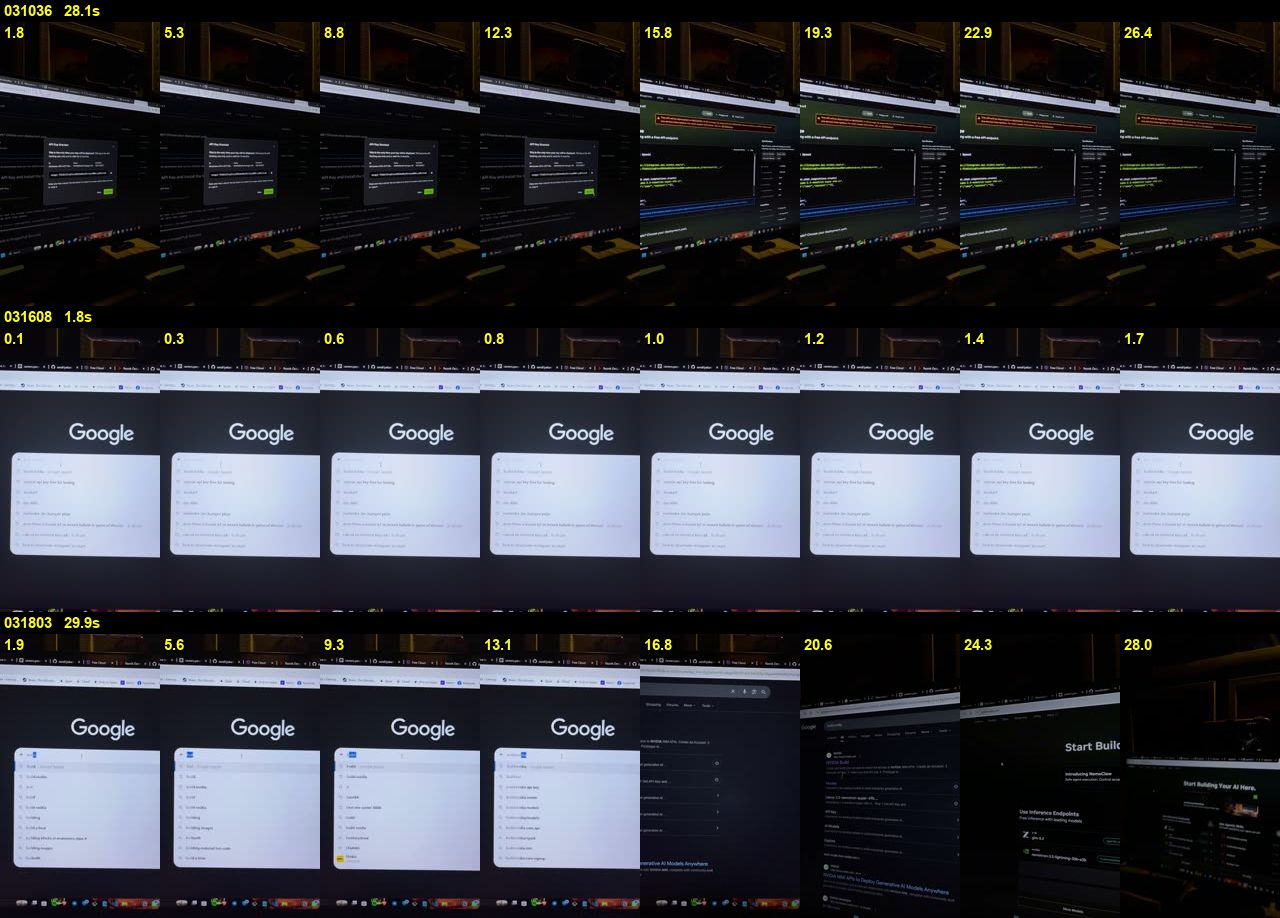
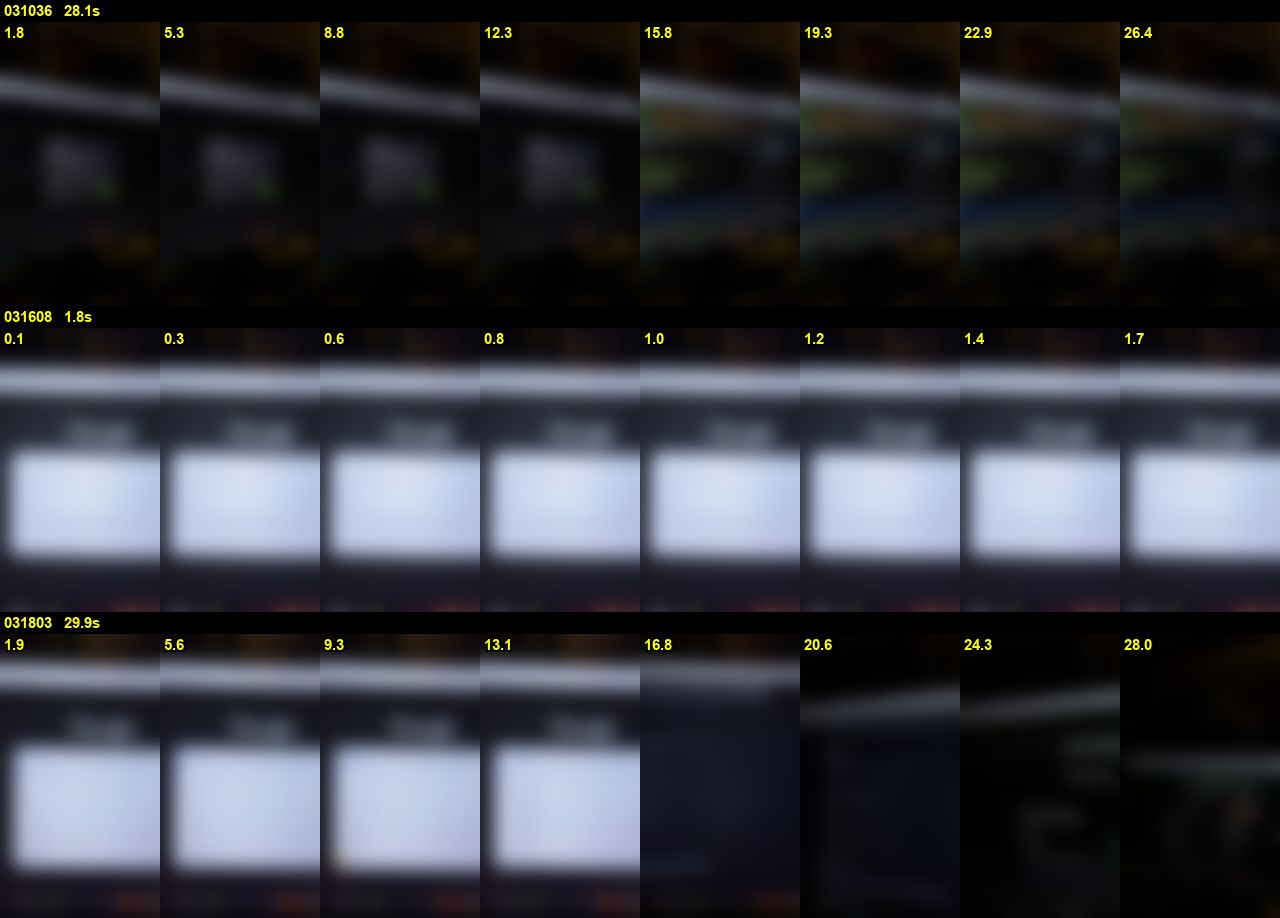
Blur sensitive clips in contact sheets, tighten crop on Yori stand shot

diff --git a/scripts/contact_sheets.py b/scripts/contact_sheets.py
@@ -1,7 +1,8 @@
 """Contact sheets of the proxies: one row of 8 frames per clip, 3 clips per sheet.
 Usage: python scripts/contact_sheets.py   (run from project root, after make_proxies.sh)"""
 import glob, os, subprocess, json
-from PIL import Image, ImageDraw, ImageFont
+from PIL import Image, ImageDraw, ImageFont, ImageFilter
+REDACT = {"031036", "031608", "031803"}   # API key / personal search suggestions on screen: blurred in the sheets
 N, W, H = 8, 160, 284
 os.makedirs("work/tmp", exist_ok=True); os.makedirs("context/clips", exist_ok=True)
 font = ImageFont.truetype("C:/Windows/Fonts/arialbd.ttf", 15)
@@ -15,7 +16,9 @@ for p in sorted(glob.glob("work/proxies/Flow_VID_*.mp4")):
     for i in range(N):
         t = dur*(i+0.5)/N; f = f"work/tmp/{cid}_{i}.jpg"
         subprocess.run(["ffmpeg","-v","error","-y","-noautorotate","-ss",f"{t:.2f}","-i",p,"-frames:v","1","-vf",f"scale={W}:{H}",f])
-        row.paste(Image.open(f), (i*W, 22)); d.text((i*W+4, 24), f"{t:.1f}", fill="yellow", font=font, stroke_width=2, stroke_fill="black")
+        im = Image.open(f)
+        if cid in REDACT: im = im.filter(ImageFilter.GaussianBlur(9))
+        row.paste(im, (i*W, 22)); d.text((i*W+4, 24), f"{t:.1f}", fill="yellow", font=font, stroke_width=2, stroke_fill="black")
     rows.append(row)
 for k in range(0, len(rows), 3):
     grp = rows[k:k+3]; sheet = Image.new("RGB", (N*W, (H+22)*len(grp)))

diff --git a/scripts/render.py b/scripts/render.py
@@ -32,6 +32,6 @@ if "endcard" in edl and os.path.exists("edit/endcard.png"):
 lst = f"{tmp}/list.txt"; open(lst,"w").write("".join(f"file '{os.path.abspath(p).replace(os.sep,'/')}'\n" for p in parts))
 final = f"output/{edl['name']}_{'draft' if proxy else 'final'}.mp4"
 subprocess.run(["ffmpeg","-v","error","-y","-f","concat","-safe","0","-i",lst,"-f","lavfi","-i","anullsrc=r=48000:cl=stereo",
-                "-c:v","libx264","-preset","slow" if not proxy else "veryfast","-crf","17" if not proxy else "22","-pix_fmt","yuv420p",
+                "-c:v","libx264","-preset","slow" if not proxy else "veryfast","-crf","20" if not proxy else "22","-pix_fmt","yuv420p",
                 "-colorspace","bt709","-color_primaries","bt709","-color_trc","bt709","-c:a","aac","-b:a","128k","-shortest","-movflags","+faststart",final], check=True)
 print("wrote", final)

diff --git a/context/03-ep3-edit.md b/context/03-ep3-edit.md
@@ -1,7 +1,7 @@
 # Episode 3 cut - "giving Yori a brain"
 
 Edit list: `edit/ep3_edl.json`. Render: `python scripts/render.py edit/ep3_edl.json` (add `--proxy` for a fast draft).
-Output: `output/yori_ep3_final.mp4`, 1080x1920, 30 fps, 50.9 s, **silent** (voice-over and music go on top).
+Output: `output/yori_ep3_final.mp4`, 1080x1920, 30 fps, 50.3 s, **silent** (voice-over and music go on top).
 
 Style rules taken from the posted reels: hard cuts only, no text on screen, ~3 s shots, one burst of 1 s shots before the close, 3.2 s "Meet Yori" end card. See `01-reel-analysis.md`.
 
@@ -23,14 +23,14 @@ Style rules taken from the posted reels: hard cuts only, no text on screen, ~3 s
 | 27.9-30.9 | Laptop keyboard glow | 015738 |
 | 30.9-34.1 | You with headphones, holding Yori | 023411 |
 | 34.1-37.5 | Testing the app in hand | 045811 |
-| 37.5-41.1 | Yori standing in front of the monitor (punched in) | 022556 |
-| 41.1-44.1 | Burst: face macro / desk figurine / face macro | 025256, 050234, 025256 |
-| 44.1-47.7 | Yori on the notebook, "Talk to Yori", blink | 025359 |
-| 47.7-50.9 | End card: Meet Yori @meetyori | edit/endcard.png |
+| 37.5-40.5 | Yori standing in front of the monitor (punched in) | 022556 |
+| 40.5-43.5 | Burst: face macro / desk figurine / face macro | 025256, 050234, 025256 |
+| 43.5-47.1 | Yori on the notebook, "Talk to Yori", blink | 025359 |
+| 47.1-50.3 | End card: Meet Yori @meetyori | edit/endcard.png |
 
 ## Voice-over draft (to rewrite in your own words)
 
-Target: about 130-140 words, 2.8-3.2 words per second, start on frame 1, finish by 47.7 s. Same structure as before: where we are -> goal -> steps -> result -> what's left -> close. The lines in square brackets are guesses from the footage; fix them.
+Target: about 130-140 words, 2.8-3.2 words per second, start on frame 1, finish by 47.1 s. Same structure as before: where we are -> goal -> steps -> result -> what's left -> close. The lines in square brackets are guesses from the footage; fix them.
 
 | Time | Line |
 |---|---|
@@ -43,7 +43,7 @@ Target: about 130-140 words, 2.8-3.2 words per second, start on frame 1, finish 
 | 20.8-24.5 | Aur ek detailed prompt likha: brain, prompt builder, aur har emotion ke liye ek face. |
 | 24.5-30.9 | Phir AI ne code likhna start kara. [Honestly isme kaafi bugs aaye, aur kaafi time laga.] |
 | 30.9-37.5 | And finally, maine isko phone pe test kara. |
-| 37.5-44.1 | [And yeah, it's working. Yori ab reply kar sakta hai.] |
-| 44.1-47.7 | [Next step: isko apni awaaz dena.] Let's see how far this goes. |
+| 37.5-43.5 | [And yeah, it's working. Yori ab reply kar sakta hai.] |
+| 43.5-47.1 | [Next step: isko apni awaaz dena.] Let's see how far this goes. |
 
 Audio notes for matching the old reels: voice at about -14.5 LUFS integrated, quiet bassy music bed about 15-18 dB under the voice, no gaps longer than ~1 s.

diff --git a/context/02-clip-log.md b/context/02-clip-log.md
@@ -52,4 +52,4 @@ Verdict: **USED** = in the Episode 3 cut, **good** = usable spare, **weak** = us
 
 - `031036`: the NVIDIA API key dialog is on screen. Never use the first 14 s. If that key is still active, regenerate it.
 - `031608`, `031803` (0-16 s): Google's suggestion dropdown shows personal search history.
-- `022556`: the ChatGPT sidebar with chat titles is in frame on the left. The cut punches in 1.6x on the phone so the sidebar is out of frame.
+- `022556`: the ChatGPT sidebar with chat titles is in frame on the left. The cut uses 15.7-18.7 s punched in 2.4x on the phone so the sidebar is out of frame. Do not use the uncropped shot.
